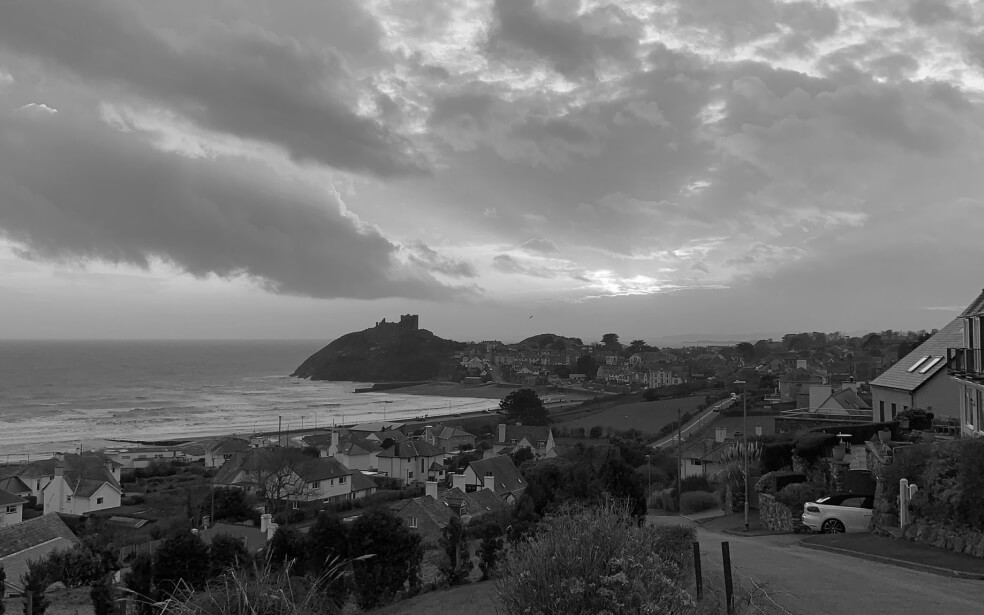
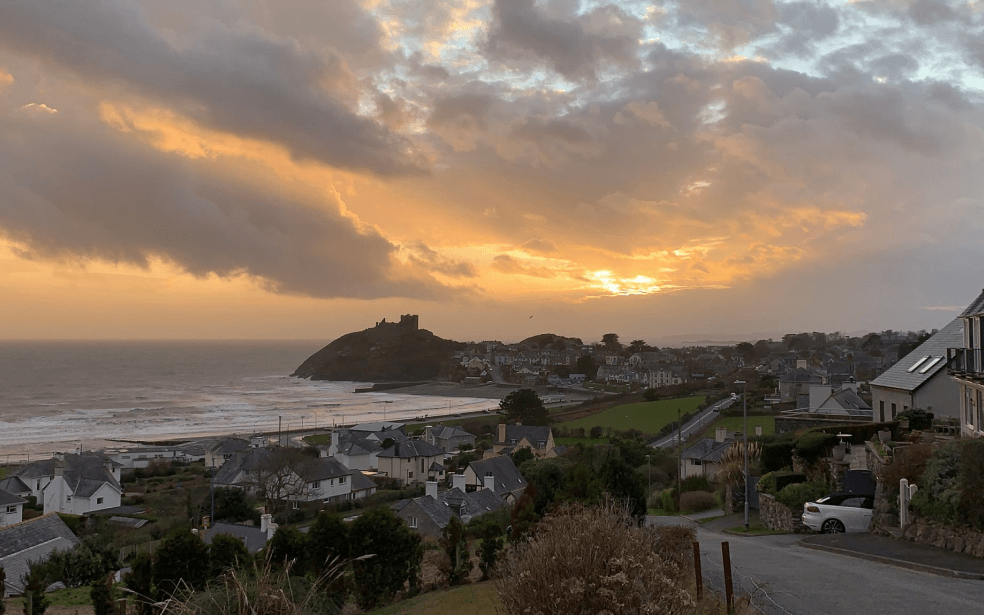
replace lead image

diff --git a/blocks/lead/__image/lead__image.css b/blocks/lead/__image/lead__image.css
@@ -2,6 +2,8 @@
   display: block;
   max-width: 100%;
   margin: auto;
+  background: #000000;
+  mix-blend-mode: luminosity;
 }
 
 /* TEMPORARY FOR MEDIA QUERY ON DEVTOOLS REMOVE OR IGNORE PLEASE */

diff --git a/blocks/page/page.css b/blocks/page/page.css
@@ -12,6 +12,4 @@
   background-color: #2a2c2f;
   color: #ffffff;
   box-sizing: border-box;
-
-  /* max-width: 1600px; */
 }
